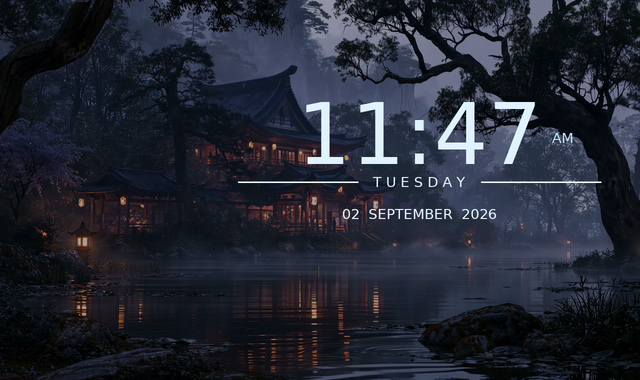
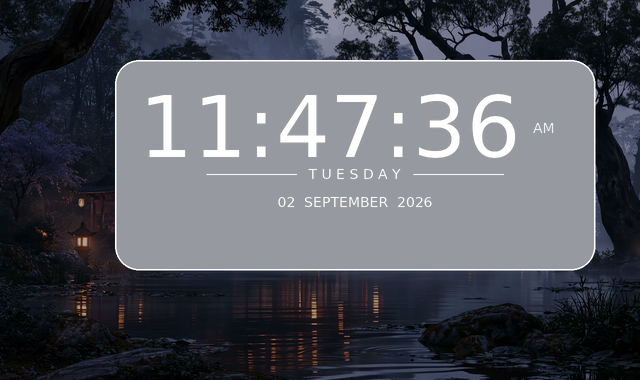
feat: Translucent frosted glass card container with ultra-thin 3D glass HH:MM:SS digits and AM/PM glow

diff --git a/clock.html b/clock.html
@@ -2419,16 +2419,18 @@
             .theme-glass_anime_hydrangea #glass-clock-display {
                 display: flex !important;
                 flex-direction: column !important;
-                background: transparent !important;
-                border: none !important;
-                box-shadow: none !important;
-                backdrop-filter: none !important;
-                -webkit-backdrop-filter: none !important;
-                padding: 0 !important;
-            }
-
-            .theme-glass_misty_pavilion #glass-clock-display {
                 align-items: center !important;
+                background: rgba(12, 20, 34, 0.35) !important;
+                border: 1.5px solid rgba(255, 255, 255, 0.40) !important;
+                backdrop-filter: blur(18px) !important;
+                -webkit-backdrop-filter: blur(18px) !important;
+                border-radius: 28px !important;
+                padding: clamp(18px, 2.5vw, 32px) clamp(24px, 3.2vw, 48px) !important;
+                box-shadow: 
+                    0 16px 48px rgba(0, 0, 0, 0.45),
+                    inset 0 1.5px 0 rgba(255, 255, 255, 0.30),
+                    0 0 35px rgba(186, 230, 253, 0.15) !important;
+                gap: 0px !important;
             }
 
             .theme-glass_misty_pavilion .glass-time-row,
@@ -2457,29 +2459,29 @@
                 padding: 0 !important;
             }
 
-            /* Pure Transparent White Glass 3D Typography */
+            /* Sleek 3D Translucent Liquid Glass Typography */
             .theme-glass_misty_pavilion .gc-num,
             .theme-glass_anime_hydrangea .gc-num {
                 font-family: 'Comfortaa', 'Outfit', 'Quicksand', system-ui, sans-serif !important;
-                font-size: clamp(80px, 11vw, 175px) !important;
-                font-weight: 300 !important;
+                font-size: clamp(75px, 10.5vw, 165px) !important;
+                font-weight: 200 !important;
                 letter-spacing: -0.01em !important;
-                background: linear-gradient(180deg, #ffffff 0%, #f0f9ff 55%, #e0f2fe 100%) !important;
+                background: linear-gradient(180deg, rgba(255, 255, 255, 0.98) 0%, rgba(240, 249, 255, 0.75) 55%, rgba(186, 230, 253, 0.45) 100%) !important;
                 -webkit-background-clip: text !important;
                 -webkit-text-fill-color: transparent !important;
-                -webkit-text-stroke: 1.5px rgba(255, 255, 255, 0.90) !important;
-                filter: drop-shadow(0 0 20px rgba(255, 255, 255, 0.95)) drop-shadow(0 0 45px rgba(186, 230, 253, 0.70)) drop-shadow(0 8px 28px rgba(0, 0, 0, 0.90)) !important;
+                -webkit-text-stroke: 1.2px rgba(255, 255, 255, 0.85) !important;
+                filter: drop-shadow(0 0 16px rgba(255, 255, 255, 0.90)) drop-shadow(0 0 35px rgba(186, 230, 253, 0.65)) drop-shadow(0 8px 24px rgba(0, 0, 0, 0.85)) !important;
             }
 
             .theme-glass_misty_pavilion .glass-colon,
             .theme-glass_anime_hydrangea .glass-colon {
                 font-family: 'Comfortaa', 'Outfit', sans-serif !important;
-                font-size: clamp(70px, 9.5vw, 150px) !important;
-                background: linear-gradient(180deg, #ffffff 0%, #f0f9ff 60%, #e0f2fe 100%) !important;
+                font-size: clamp(65px, 9vw, 140px) !important;
+                background: linear-gradient(180deg, rgba(255, 255, 255, 0.98) 0%, rgba(240, 249, 255, 0.75) 60%, rgba(186, 230, 253, 0.45) 100%) !important;
                 -webkit-background-clip: text !important;
                 -webkit-text-fill-color: transparent !important;
-                -webkit-text-stroke: 1.2px rgba(255, 255, 255, 0.85) !important;
-                filter: drop-shadow(0 0 20px rgba(255, 255, 255, 0.90)) !important;
+                -webkit-text-stroke: 1px rgba(255, 255, 255, 0.80) !important;
+                filter: drop-shadow(0 0 16px rgba(255, 255, 255, 0.85)) !important;
                 margin: 0 4px !important;
                 align-self: center !important;
             }
@@ -2487,17 +2489,18 @@
             .theme-glass_misty_pavilion .gc-ampm-pill,
             .theme-glass_anime_hydrangea .gc-ampm-pill {
                 font-family: 'Outfit', 'Inter', sans-serif !important;
-                font-size: clamp(16px, 2.2vw, 30px) !important;
-                font-weight: 400 !important;
+                font-size: clamp(15px, 2vw, 28px) !important;
+                font-weight: 300 !important;
                 letter-spacing: 0.25em !important;
-                color: #ffffff !important;
+                color: rgba(240, 248, 255, 0.95) !important;
                 background: transparent !important;
                 border: none !important;
                 box-shadow: none !important;
-                margin-left: 14px !important;
+                margin-left: 12px !important;
                 align-self: flex-end !important;
-                margin-bottom: 25px !important;
-                text-shadow: 0 0 20px rgba(255, 255, 255, 0.90) !important;
+                margin-bottom: 22px !important;
+                -webkit-text-stroke: 0.8px rgba(255, 255, 255, 0.70) !important;
+                text-shadow: 0 0 16px rgba(255, 255, 255, 0.90), 0 0 30px rgba(186, 230, 253, 0.60) !important;
             }
 
             .theme-glass_misty_pavilion #date-badge,

diff --git a/index.html b/index.html
@@ -2419,16 +2419,18 @@
             .theme-glass_anime_hydrangea #glass-clock-display {
                 display: flex !important;
                 flex-direction: column !important;
-                background: transparent !important;
-                border: none !important;
-                box-shadow: none !important;
-                backdrop-filter: none !important;
-                -webkit-backdrop-filter: none !important;
-                padding: 0 !important;
-            }
-
-            .theme-glass_misty_pavilion #glass-clock-display {
                 align-items: center !important;
+                background: rgba(12, 20, 34, 0.35) !important;
+                border: 1.5px solid rgba(255, 255, 255, 0.40) !important;
+                backdrop-filter: blur(18px) !important;
+                -webkit-backdrop-filter: blur(18px) !important;
+                border-radius: 28px !important;
+                padding: clamp(18px, 2.5vw, 32px) clamp(24px, 3.2vw, 48px) !important;
+                box-shadow: 
+                    0 16px 48px rgba(0, 0, 0, 0.45),
+                    inset 0 1.5px 0 rgba(255, 255, 255, 0.30),
+                    0 0 35px rgba(186, 230, 253, 0.15) !important;
+                gap: 0px !important;
             }
 
             .theme-glass_misty_pavilion .glass-time-row,
@@ -2457,29 +2459,29 @@
                 padding: 0 !important;
             }
 
-            /* Pure Transparent White Glass 3D Typography */
+            /* Sleek 3D Translucent Liquid Glass Typography */
             .theme-glass_misty_pavilion .gc-num,
             .theme-glass_anime_hydrangea .gc-num {
                 font-family: 'Comfortaa', 'Outfit', 'Quicksand', system-ui, sans-serif !important;
-                font-size: clamp(80px, 11vw, 175px) !important;
-                font-weight: 300 !important;
+                font-size: clamp(75px, 10.5vw, 165px) !important;
+                font-weight: 200 !important;
                 letter-spacing: -0.01em !important;
-                background: linear-gradient(180deg, #ffffff 0%, #f0f9ff 55%, #e0f2fe 100%) !important;
+                background: linear-gradient(180deg, rgba(255, 255, 255, 0.98) 0%, rgba(240, 249, 255, 0.75) 55%, rgba(186, 230, 253, 0.45) 100%) !important;
                 -webkit-background-clip: text !important;
                 -webkit-text-fill-color: transparent !important;
-                -webkit-text-stroke: 1.5px rgba(255, 255, 255, 0.90) !important;
-                filter: drop-shadow(0 0 20px rgba(255, 255, 255, 0.95)) drop-shadow(0 0 45px rgba(186, 230, 253, 0.70)) drop-shadow(0 8px 28px rgba(0, 0, 0, 0.90)) !important;
+                -webkit-text-stroke: 1.2px rgba(255, 255, 255, 0.85) !important;
+                filter: drop-shadow(0 0 16px rgba(255, 255, 255, 0.90)) drop-shadow(0 0 35px rgba(186, 230, 253, 0.65)) drop-shadow(0 8px 24px rgba(0, 0, 0, 0.85)) !important;
             }
 
             .theme-glass_misty_pavilion .glass-colon,
             .theme-glass_anime_hydrangea .glass-colon {
                 font-family: 'Comfortaa', 'Outfit', sans-serif !important;
-                font-size: clamp(70px, 9.5vw, 150px) !important;
-                background: linear-gradient(180deg, #ffffff 0%, #f0f9ff 60%, #e0f2fe 100%) !important;
+                font-size: clamp(65px, 9vw, 140px) !important;
+                background: linear-gradient(180deg, rgba(255, 255, 255, 0.98) 0%, rgba(240, 249, 255, 0.75) 60%, rgba(186, 230, 253, 0.45) 100%) !important;
                 -webkit-background-clip: text !important;
                 -webkit-text-fill-color: transparent !important;
-                -webkit-text-stroke: 1.2px rgba(255, 255, 255, 0.85) !important;
-                filter: drop-shadow(0 0 20px rgba(255, 255, 255, 0.90)) !important;
+                -webkit-text-stroke: 1px rgba(255, 255, 255, 0.80) !important;
+                filter: drop-shadow(0 0 16px rgba(255, 255, 255, 0.85)) !important;
                 margin: 0 4px !important;
                 align-self: center !important;
             }
@@ -2487,17 +2489,18 @@
             .theme-glass_misty_pavilion .gc-ampm-pill,
             .theme-glass_anime_hydrangea .gc-ampm-pill {
                 font-family: 'Outfit', 'Inter', sans-serif !important;
-                font-size: clamp(16px, 2.2vw, 30px) !important;
-                font-weight: 400 !important;
+                font-size: clamp(15px, 2vw, 28px) !important;
+                font-weight: 300 !important;
                 letter-spacing: 0.25em !important;
-                color: #ffffff !important;
+                color: rgba(240, 248, 255, 0.95) !important;
                 background: transparent !important;
                 border: none !important;
                 box-shadow: none !important;
-                margin-left: 14px !important;
+                margin-left: 12px !important;
                 align-self: flex-end !important;
-                margin-bottom: 25px !important;
-                text-shadow: 0 0 20px rgba(255, 255, 255, 0.90) !important;
+                margin-bottom: 22px !important;
+                -webkit-text-stroke: 0.8px rgba(255, 255, 255, 0.70) !important;
+                text-shadow: 0 0 16px rgba(255, 255, 255, 0.90), 0 0 30px rgba(186, 230, 253, 0.60) !important;
             }
 
             .theme-glass_misty_pavilion #date-badge,

diff --git a/mobile/app/src/main/assets/index.html b/mobile/app/src/main/assets/index.html
@@ -2419,16 +2419,18 @@
             .theme-glass_anime_hydrangea #glass-clock-display {
                 display: flex !important;
                 flex-direction: column !important;
-                background: transparent !important;
-                border: none !important;
-                box-shadow: none !important;
-                backdrop-filter: none !important;
-                -webkit-backdrop-filter: none !important;
-                padding: 0 !important;
-            }
-
-            .theme-glass_misty_pavilion #glass-clock-display {
                 align-items: center !important;
+                background: rgba(12, 20, 34, 0.35) !important;
+                border: 1.5px solid rgba(255, 255, 255, 0.40) !important;
+                backdrop-filter: blur(18px) !important;
+                -webkit-backdrop-filter: blur(18px) !important;
+                border-radius: 28px !important;
+                padding: clamp(18px, 2.5vw, 32px) clamp(24px, 3.2vw, 48px) !important;
+                box-shadow: 
+                    0 16px 48px rgba(0, 0, 0, 0.45),
+                    inset 0 1.5px 0 rgba(255, 255, 255, 0.30),
+                    0 0 35px rgba(186, 230, 253, 0.15) !important;
+                gap: 0px !important;
             }
 
             .theme-glass_misty_pavilion .glass-time-row,
@@ -2457,29 +2459,29 @@
                 padding: 0 !important;
             }
 
-            /* Pure Transparent White Glass 3D Typography */
+            /* Sleek 3D Translucent Liquid Glass Typography */
             .theme-glass_misty_pavilion .gc-num,
             .theme-glass_anime_hydrangea .gc-num {
                 font-family: 'Comfortaa', 'Outfit', 'Quicksand', system-ui, sans-serif !important;
-                font-size: clamp(80px, 11vw, 175px) !important;
-                font-weight: 300 !important;
+                font-size: clamp(75px, 10.5vw, 165px) !important;
+                font-weight: 200 !important;
                 letter-spacing: -0.01em !important;
-                background: linear-gradient(180deg, #ffffff 0%, #f0f9ff 55%, #e0f2fe 100%) !important;
+                background: linear-gradient(180deg, rgba(255, 255, 255, 0.98) 0%, rgba(240, 249, 255, 0.75) 55%, rgba(186, 230, 253, 0.45) 100%) !important;
                 -webkit-background-clip: text !important;
                 -webkit-text-fill-color: transparent !important;
-                -webkit-text-stroke: 1.5px rgba(255, 255, 255, 0.90) !important;
-                filter: drop-shadow(0 0 20px rgba(255, 255, 255, 0.95)) drop-shadow(0 0 45px rgba(186, 230, 253, 0.70)) drop-shadow(0 8px 28px rgba(0, 0, 0, 0.90)) !important;
+                -webkit-text-stroke: 1.2px rgba(255, 255, 255, 0.85) !important;
+                filter: drop-shadow(0 0 16px rgba(255, 255, 255, 0.90)) drop-shadow(0 0 35px rgba(186, 230, 253, 0.65)) drop-shadow(0 8px 24px rgba(0, 0, 0, 0.85)) !important;
             }
 
             .theme-glass_misty_pavilion .glass-colon,
             .theme-glass_anime_hydrangea .glass-colon {
                 font-family: 'Comfortaa', 'Outfit', sans-serif !important;
-                font-size: clamp(70px, 9.5vw, 150px) !important;
-                background: linear-gradient(180deg, #ffffff 0%, #f0f9ff 60%, #e0f2fe 100%) !important;
+                font-size: clamp(65px, 9vw, 140px) !important;
+                background: linear-gradient(180deg, rgba(255, 255, 255, 0.98) 0%, rgba(240, 249, 255, 0.75) 60%, rgba(186, 230, 253, 0.45) 100%) !important;
                 -webkit-background-clip: text !important;
                 -webkit-text-fill-color: transparent !important;
-                -webkit-text-stroke: 1.2px rgba(255, 255, 255, 0.85) !important;
-                filter: drop-shadow(0 0 20px rgba(255, 255, 255, 0.90)) !important;
+                -webkit-text-stroke: 1px rgba(255, 255, 255, 0.80) !important;
+                filter: drop-shadow(0 0 16px rgba(255, 255, 255, 0.85)) !important;
                 margin: 0 4px !important;
                 align-self: center !important;
             }
@@ -2487,17 +2489,18 @@
             .theme-glass_misty_pavilion .gc-ampm-pill,
             .theme-glass_anime_hydrangea .gc-ampm-pill {
                 font-family: 'Outfit', 'Inter', sans-serif !important;
-                font-size: clamp(16px, 2.2vw, 30px) !important;
-                font-weight: 400 !important;
+                font-size: clamp(15px, 2vw, 28px) !important;
+                font-weight: 300 !important;
                 letter-spacing: 0.25em !important;
-                color: #ffffff !important;
+                color: rgba(240, 248, 255, 0.95) !important;
                 background: transparent !important;
                 border: none !important;
                 box-shadow: none !important;
-                margin-left: 14px !important;
+                margin-left: 12px !important;
                 align-self: flex-end !important;
-                margin-bottom: 25px !important;
-                text-shadow: 0 0 20px rgba(255, 255, 255, 0.90) !important;
+                margin-bottom: 22px !important;
+                -webkit-text-stroke: 0.8px rgba(255, 255, 255, 0.70) !important;
+                text-shadow: 0 0 16px rgba(255, 255, 255, 0.90), 0 0 30px rgba(186, 230, 253, 0.60) !important;
             }
 
             .theme-glass_misty_pavilion #date-badge,

diff --git a/generate_theme_screenshots.py b/generate_theme_screenshots.py
@@ -516,59 +516,49 @@ def render_theme_screenshot(theme_key, theme_info, output_dir="assets"):
 
 
 
-        if theme_key == "glass_anime_hydrangea":
-            # Left-aligned frameless 3D glass clock
-            clock_x = int(50 * scale)
-            clock_y = int(85 * scale)
+        if theme_key in ["glass_anime_hydrangea", "glass_misty_pavilion"]:
+            # Frosted glass card container box
+            card_w = int(480 * scale)
+            card_h = int(210 * scale)
+            if theme_key == "glass_anime_hydrangea":
+                card_x = int(45 * scale)
+            else:
+                card_x = w - int(45 * scale) - card_w
+            card_y = int(60 * scale)
+            card_r = int(24 * scale)
 
-            draw.text((clock_x, clock_y), time_str, font=font_large, fill=(255, 255, 255, 255))
-            draw.text((clock_x + tw + int(8 * scale), clock_y + int(28 * scale)), sec_str, font=font_sub, fill=(186, 230, 253, 230))
-            draw.text((clock_x + tw + int(50 * scale), clock_y + int(45 * scale)), ampm_str, font=font_sub, fill=(186, 230, 253, 230))
+            # Draw translucent glass card box
+            draw.rounded_rectangle([card_x, card_y, card_x + card_w, card_y + card_h], radius=card_r, fill=(12, 20, 34, 110), outline=(255, 255, 255, 120), width=int(1.5 * scale))
+
+            # Digits inside glass card box
+            full_time_str = "11:47:36"
+            ftb = draw.textbbox((0, 0), full_time_str, font=font_large)
+            ftw = ftb[2] - ftb[0]
+            fth = ftb[3] - ftb[1]
+
+            clock_x = card_x + (card_w - ftw) // 2 - int(25 * scale)
+            clock_y = card_y + int(18 * scale)
+
+            draw.text((clock_x, clock_y), full_time_str, font=font_large, fill=(255, 255, 255, 255))
+            draw.text((clock_x + ftw + int(12 * scale), clock_y + int(42 * scale)), ampm_str, font=font_sub, fill=(240, 248, 255, 240))
 
             # Day divider line
-            line_y = clock_y + th + int(30 * scale)
+            line_y = clock_y + fth + int(32 * scale)
             db = draw.textbbox((0, 0), day_str, font=font_sub)
             dw = db[2] - db[0]
-            day_x = clock_x + (tw - dw) // 2
+            day_x = card_x + (card_w - dw) // 2
 
-            line_len = int(80 * scale)
-            draw.line([(day_x - line_len - int(12 * scale), line_y), (day_x - int(12 * scale), line_y)], fill=(224, 242, 254, 150), width=int(1.2 * scale))
-            draw.text((day_x, line_y - int(8 * scale)), day_str, font=font_sub, fill=(224, 242, 254, 240))
-            draw.line([(day_x + dw + int(12 * scale), line_y), (day_x + dw + line_len + int(12 * scale), line_y)], fill=(224, 242, 254, 150), width=int(1.2 * scale))
+            line_len = int(90 * scale)
+            draw.line([(day_x - line_len - int(12 * scale), line_y), (day_x - int(12 * scale), line_y)], fill=(255, 255, 255, 140), width=int(1.2 * scale))
+            draw.text((day_x, line_y - int(8 * scale)), day_str, font=font_sub, fill=(255, 255, 255, 240))
+            draw.line([(day_x + dw + int(12 * scale), line_y), (day_x + dw + line_len + int(12 * scale), line_y)], fill=(255, 255, 255, 140), width=int(1.2 * scale))
 
             # Date text
             dtb = draw.textbbox((0, 0), date_str, font=font_sub)
             dtw = dtb[2] - dtb[0]
-            date_x = clock_x + (tw - dtw) // 2
-            date_y = line_y + int(22 * scale)
-            draw.text((date_x, date_y), date_str, font=font_sub, fill=(224, 242, 254, 200))
-
-        else:
-            # Frameless right-aligned for Misty Pavilion matching Image 2
-            right_margin = int(48 * scale)
-            clock_x = w - right_margin - tw - int(50 * scale)
-            clock_y = int(85 * scale)
-
-            draw.text((clock_x, clock_y), time_str, font=font_large, fill=(224, 242, 254, 255))
-            draw.text((clock_x + tw + int(10 * scale), clock_y + int(45 * scale)), ampm_str, font=font_sub, fill=(186, 230, 253, 230))
-
-            # Day divider line
-            line_y = clock_y + th + int(35 * scale)
-            db = draw.textbbox((0, 0), day_str, font=font_sub)
-            dw = db[2] - db[0]
-            day_x = clock_x + (tw - dw) // 2
-
-            line_len = int(120 * scale)
-            draw.line([(day_x - line_len - int(15 * scale), line_y), (day_x - int(15 * scale), line_y)], fill=(224, 242, 254, 160), width=int(1.5 * scale))
-            draw.text((day_x, line_y - int(8 * scale)), day_str, font=font_sub, fill=(224, 242, 254, 240))
-            draw.line([(day_x + dw + int(15 * scale), line_y), (day_x + dw + line_len + int(15 * scale), line_y)], fill=(224, 242, 254, 160), width=int(1.5 * scale))
-
-            # Date text line
-            dtb = draw.textbbox((0, 0), date_str, font=font_sub)
-            dtw = dtb[2] - dtb[0]
-            date_x = clock_x + (tw - dtw) // 2
-            date_y = line_y + int(24 * scale)
-            draw.text((date_x, date_y), date_str, font=font_sub, fill=(224, 242, 254, 200))
+            date_x = card_x + (card_w - dtw) // 2
+            date_y = line_y + int(20 * scale)
+            draw.text((date_x, date_y), date_str, font=font_sub, fill=(255, 255, 255, 220))
 
     else:
         # 3. Flip Cards ("10" : "45")
